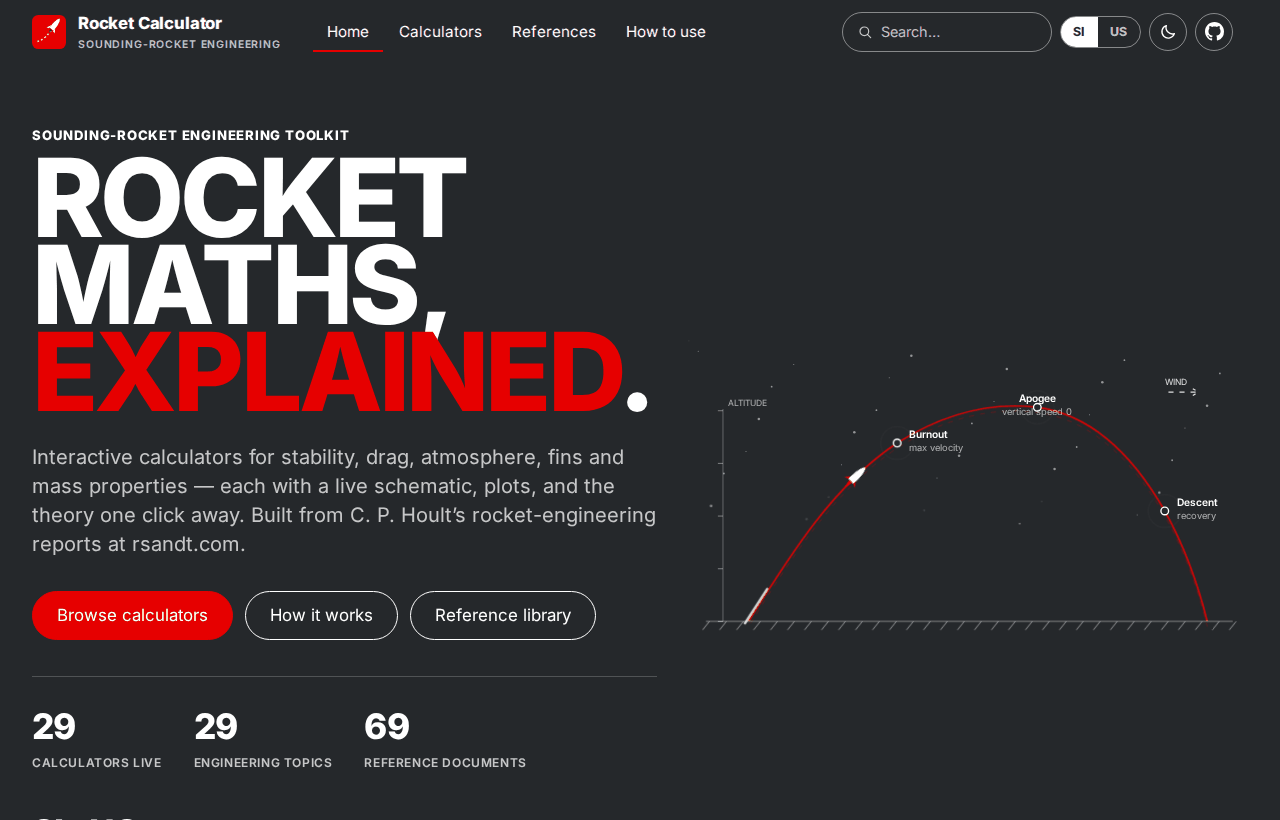
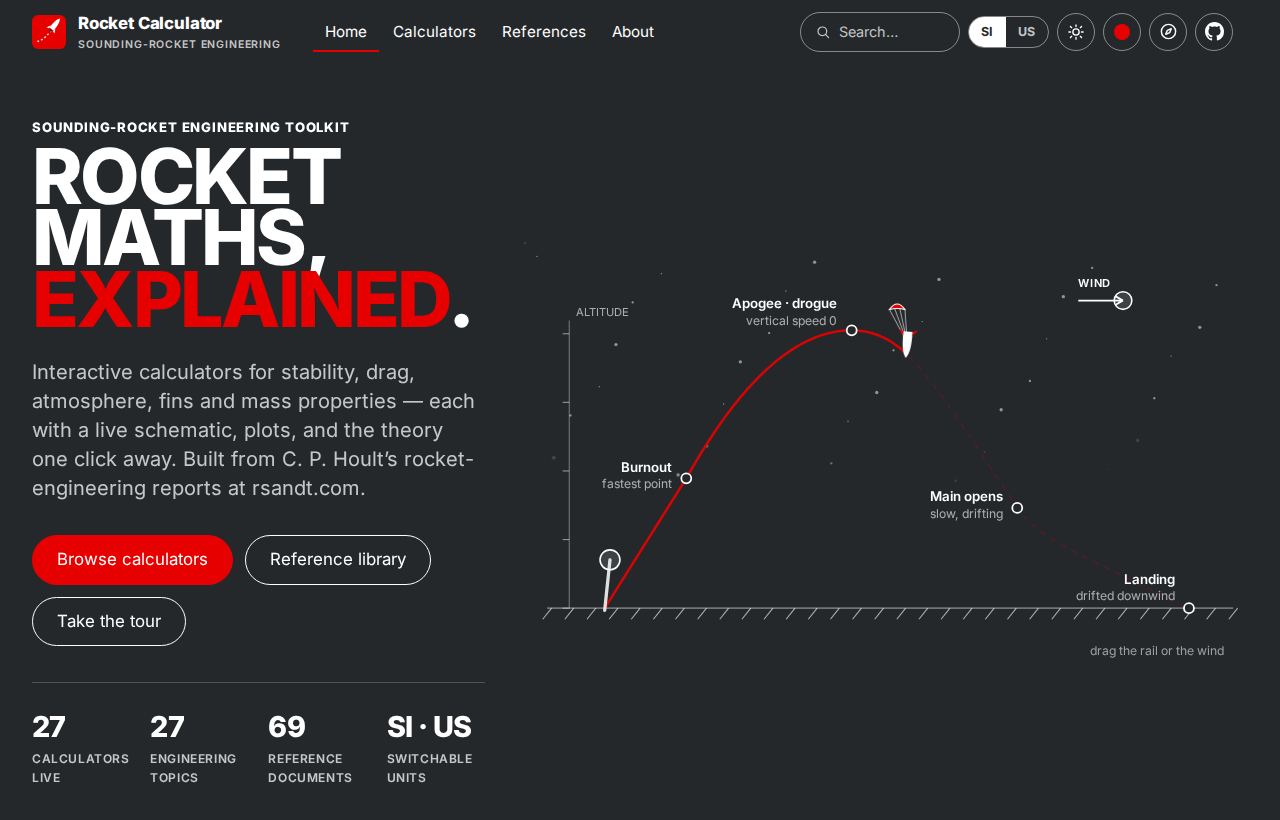
chore: housekeeping — README facts and screenshots, archive first-build docs, changelog and progress (#72)
- README: 27 calculators (aerodynamics 5), new screenshots of the
current site, tour/phone notes, SEO step, repository map and file
counts.
- `docs/PLAN.md` and `docs/PROGRESS.md` moved to `docs/history/` with a
superseded note (DECISIONS keeps them as history); references updated.
- CHANGELOG entries for the hero, SEO, tour, touch and this pass;
PROGRESS.md caught up; touch lessons in KNOWLEDGE.md.
- `scripts/touch-audit.mjs` kept as a tool; CALCULATOR-SPEC header row
matches the current header.

🤖 Generated with [Claude Code](https://claude.com/claude-code)

diff --git a/site/js/calculator-page.js b/site/js/calculator-page.js
@@ -1,5 +1,5 @@
 // Generic calculator page: renders intro, form, key results, schematic, plots, results table, references.
-// A calculator is a definition module (js/calculators/<slug>.js) — see docs/PLAN.md for the API.
+// A calculator is a definition module (js/calculators/<slug>.js) — see KNOWLEDGE.md (Shared component reference) for the API.
 import { h, url, fmt, num, debounce, toast, copyText, download, loadRegistry, loadReferences, storage, reveal, InputError } from './util.js';
 import { initShell, ICONS } from './app.js';
 

diff --git a/scripts/seed_registry.py b/scripts/seed_registry.py
@@ -4,7 +4,7 @@ Inputs : data/catalog.json (parsed from rsandt.com/reports.html), PDFs in site/r
 Outputs: site/js/registry.json   - areas, topics, calculators, non-PDF source files
          site/references/references.json - one entry per served PDF with a readable title
 
-Titles/authors/dates below were read from each document's title block (see docs/PLAN.md).
+Titles/authors/dates below were read from each document's title block (see docs/history/first-build-plan.md).
 Re-run after adding a calculator:  python3 scripts/seed_registry.py
 """
 import json, os, re, html, urllib.parse

diff --git a/README.md b/README.md
@@ -1,6 +1,6 @@
 # Rocket Calculator
 
-**Sounding-rocket engineering, explained — 29 interactive calculators with live diagrams, plots and the theory one click away.**
+**Sounding-rocket engineering, explained — 27 interactive calculators with live diagrams, plots and the theory one click away.**
 
 **Live: <https://rocketcalculator.github.io/>**
 
@@ -24,7 +24,8 @@ its geometry in a **scaled drawing**, plots the results, and links to a **theory
 - **Diagrams you can use:** zoom and pan, drag handles on the drawing to change inputs, rear view for every fin-count input.
 - **Reports:** every calculation produces a worked report (inputs, equations with your numbers, results, references) as a
   preview, Markdown or LaTeX; plots and drawings export as CSV/XLSX/JSON, SVG/PDF/EPS and PNG/JPEG.
-- **Works on a phone** (320 px and up).
+- **Works on a phone** (320 px and up): swipes scroll, sliders move only with a sideways drag, no zoom on focus.
+- **A guided tour** (the compass button) shows a new visitor every feature.
 
 ## The calculators
 | Area | Calculators |
@@ -40,7 +41,7 @@ its geometry in a **scaled drawing**, plots the results, and links to a **theory
 
 ```mermaid
 pie showData title Calculators per area
-    "Aerodynamics" : 7
+    "Aerodynamics" : 5
     "Structures & Aeroelasticity" : 5
     "Flight Dynamics & Mass Properties" : 7
     "Trajectory, Wind & Launch" : 5
@@ -55,7 +56,8 @@ pie showData title Calculators per area
 npm run serve          # http://localhost:8000 (serves site/)
 npm test               # the calculators against the original workbooks' cached values, plus invariants
 ```
-Needs only Node 22 and Python 3. After adding a calculator: `python3 scripts/seed_registry.py && node scripts/generate_pages.mjs`.
+Needs only Node 22 and Python 3. After adding a calculator: `python3 scripts/seed_registry.py && node scripts/generate_pages.mjs && node scripts/seo.mjs`
+(the full walkthrough is in the [developer guide](docs/DEVELOPER-GUIDE.md)).
 Browser checks (`npm run test:ui-layout`, `npm run test:ui-diagrams`, `node scripts/uifuzz.mjs`) need `puppeteer-core` and a
 Chromium: set `CHROME=/path/to/chrome`.
 
@@ -79,32 +81,32 @@ plots and a drawing. The shared page code does the rest, so every calculator beh
 ```text
 .
 ├── site/                      the website (what GitHub Pages publishes; no build step)
-│   ├── index.html, 404.html
-│   ├── calculators/           29 generated calculator pages
-│   ├── docs/                  29 theory pages (equations, assumptions, worked examples)
+│   ├── index.html, about.html, 404.html, sitemap.xml, robots.txt
+│   ├── calculators/           27 generated calculator pages (+ redirects from old addresses)
+│   ├── docs/                  27 theory pages (equations, assumptions, worked examples)
 │   ├── references/            69 reference PDFs + references.json
 │   ├── css/site.css
 │   ├── vendor/                KaTeX and fonts (bundled)
 │   └── js/
 │       ├── calc/              physics: plain functions, no DOM
 │       ├── calculators/       one definition per calculator
-│       ├── ui/                chart, viewport (zoom/pan), back view, form, report, export
+│       ├── ui/                chart, viewport (zoom/pan), back view, form, report, export, tour
 │       ├── calculator-page.js shared page: form, verdict, results, plots, drawings
 │       └── registry.json      topics, areas, calculators
-├── tests/                     35 test files: workbook comparisons, hand checks, invariants
-├── scripts/                   extraction pipeline, page generator, browser test runners
+├── tests/                     36 test files: workbook comparisons, hand checks, invariants, SEO
+├── scripts/                   extraction pipeline, page generator, SEO, browser test runners
 ├── data/                      catalog, every spreadsheet cell and formula, VBA, extracted text
 ├── derived/                   original Word files as PDF, spreadsheets as .xlsx
 ├── source/rsandt/             the original files, unmodified
-├── docs/                      design guide, plan, topic index, README images
+├── docs/                      developer guide, calculator spec, design guide, topic index, history, images
 └── KNOWLEDGE.md  DECISIONS.md  PROGRESS.md  CHANGELOG.md  BLOCKERS.md  DISCOVERY.md
 ```
 
 | Size by part | Files |
 |---|---|
-| Website `site/` | 266 |
-| Tests `tests/` | 35 |
-| Source material `source/`, `data/`, `derived/` | 357 |
+| Website `site/` | 277 |
+| Tests `tests/` | 37 |
+| Source material `source/`, `data/`, `derived/` | 358 |
 
 ## Working on it
 - Read [KNOWLEDGE.md](KNOWLEDGE.md) first (architecture, shared components, lessons), then [DECISIONS.md](DECISIONS.md),

diff --git a/CHANGELOG.md b/CHANGELOG.md
@@ -3,6 +3,12 @@
 Newest first, in the spirit of [Keep a Changelog](https://keepachangelog.com/). From 2026-10-25 every entry names its
 branch, tag and commit range. Live site: https://rocketcalculator.github.io/.
 
+## 2026-11-01 — Housekeeping (`chore/housekeeping`)
+- README: correct counts (27 calculators, 5 aerodynamics), new screenshots of the current site, tour and phone notes,
+  the SEO step after adding a calculator.
+- The first build's plan and log moved to `docs/history/` with a note that they are superseded (D-record kept).
+- `scripts/touch-audit.mjs` kept as a tool; touch lessons in KNOWLEDGE.md; PROGRESS.md brought up to date.
+
 ## 2026-11-01 — Open-source community files (`chore/governance`)
 - Licences: GPL-3.0-or-later for the code (LICENSE), CC BY-SA 4.0 for the written content (LICENSE-docs), and
   THIRD-PARTY.md for Hoult's material, the reference library, KaTeX and Inter (D46).
@@ -10,6 +16,26 @@ branch, tag and commit range. Live site: https://rocketcalculator.github.io/.
   decisions, triage, pull requests, releases), SECURITY.md, SUPPORT.md, CITATION.cff, .editorconfig.
 - GitHub: issue forms (wrong result, bug, feature), pull request template, CODEOWNERS, a label set
   (.github/labels.yml), Dependabot, and a CI workflow that runs the test suite on every pull request.
+
+## 2026-11-01 — Touch and scrolling (`fix/touch-scroll`, #71)
+- On phones a swipe on the inputs panel now scrolls the page (it was a scroll box that swallowed swipes), and a
+  vertical swipe across a slider scrolls instead of changing the value; only a sideways drag moves a slider.
+- Touch screens: 16 px fields (no iOS zoom), 44 px targets around the i buttons, bigger drawing handles, hero knobs and
+  zoom buttons; plot readings stay after the finger lifts and stay inside the plot; the report preview opens with a
+  button instead of scrolling inside the page; smooth in-page scrolling.
+
+## 2026-11-01 — Guided tour (`feat/tour`, #69)
+- A 20-step tour of the home page, a calculator and the reference library, from the compass button in the header
+  (the menu on phones), the hero and the footer. Keyboard, reduced motion and phones supported.
+
+## 2026-11-01 — Search engines and link previews (`feat/seo`, #68)
+- Canonical URL, Open Graph and Twitter card tags, and schema.org JSON-LD on every page; `sitemap.xml` and
+  `robots.txt`; a social preview image; crawler-readable calculator pages. `scripts/seo.mjs` writes them and the Pages
+  workflow refreshes them on deploy; `tests/seo.test.js` keeps them in step.
+
+## 2026-10-27 → 2026-11-01 — Hero flight (#63–#67)
+- The flight fills the hero, recovers smoothly with an inflating drogue and main, lands nose-first and topples over
+  with its parachutes; the hero gives the flight the larger column and sizes the title to its own column.
 
 ## 2026-10-27 — Home page (`improve/home-page`)
 - Hero: the flight is now interactive and complete — boost along the rail, coast to apogee, the drogue at apogee, the

diff --git a/KNOWLEDGE.md b/KNOWLEDGE.md
@@ -488,6 +488,20 @@ fin count, Reliability Growth exposure and fixing).
 
 ## Lessons learned
 
+### Touch and scrolling (2026-11-01)
+- **Test touch with real touch events.** In the headless shell `Input.synthesizeScrollGesture` scrolls nothing even on
+  plain text; `Input.dispatchTouchEvent` (touchStart, 8 × touchMove, touchEnd) scrolls like a finger. `scripts/touch-audit.mjs`
+  swipes from every kind of element and lists small targets, iOS-zoom fields and nested scroll boxes.
+- **Chrome's native range input ignores `touch-action`.** A vertical swipe across it changed the value and did not
+  scroll. On coarse pointers the slider sits in `.range-touch` (`touch-action: pan-y`, slider `pointer-events: none`),
+  and form.js moves it only after a sideways drag of more than 8 px.
+- **`overscroll-behavior: contain` on a box that cannot scroll still stops the page scrolling.** The stacked inputs
+  panel kept `overflow: auto` from the sticky desktop layout and swallowed every swipe; below 980 px it is `overflow: visible`.
+- **iOS zooms into any field under 16 px**; touch screens get 16 px fields. Small buttons get a 44 px `::after` target.
+- **Plots on touch:** `touch-action: pan-y` lets a sideways finger read along the curve; `pointerleave` fires right
+  after a tap, so the reading is kept until the next scroll or tap.
+
+
 ### After Nozzle (Phase 2)
 - **Sweep every slider in the browser and check that the drawing changes and nothing is refused** (scratch `sweep.mjs`): unit tests passed while most of the input space was refused. Coupled inputs must degrade gracefully (clamp + warn), not refuse.
 - **Chart labels: wrap maths in `$…$`.** A label with bare TeX and words (`'Expansion ratio \\varepsilon'`) is typeset whole as maths in the tooltip — no spaces, italic.

diff --git a/PROGRESS.md b/PROGRESS.md
@@ -1,7 +1,7 @@
 # Progress — overhaul run
 
 Running log of the overhaul (plan given 2026-10-25). Newest last. Read with `DECISIONS.md`, `BLOCKERS.md` and
-`KNOWLEDGE.md`. The log of the first build is `docs/PROGRESS.md`.
+`KNOWLEDGE.md`. The log of the first build is `docs/history/first-build-progress.md`.
 
 ## 2026-10-25 — Phase −1: hosting
 
@@ -113,3 +113,15 @@ live pages checked after each deploy.
 - Tests: npm test 294/294; browser check of all examples, SI/US, live site clean. Layout/diagram suites deferred (D20).
 - Earlier the same day (user requests): back-view note shown whole and drawings above plots (#12), Fin Flutter fin
   count removed (#13), Reliability Growth handle centred (#14).
+
+## 2026-10-27 → 2026-11-01 — Home page, SEO, tour, touch, community
+
+- Every calculator is at the standard (D26–D45); info tabs rewritten to DESIGN-GUIDE §6a.
+- Home hero: an interactive flight (rail and wind handles) with drogue and main inflating, a nose-first landing that
+  topples over with the parachutes, and a larger layout (#63–#67).
+- SEO: canonical, Open Graph/Twitter and JSON-LD on every page, sitemap.xml and robots.txt from `scripts/seo.mjs`,
+  refreshed on deploy (#68).
+- Guided tour across home, Fin Flutter and the reference library (#69).
+- Touch and scrolling: the stacked inputs panel and sliders no longer trap swipes, 16 px fields, bigger targets (#71).
+- Open-source community files, licences (GPL-3.0-or-later, CC BY-SA 4.0), CI on pull requests, repository rules (D46).
+- Housekeeping: README screenshots retaken, the first build's plan and log moved to `docs/history/`.

diff --git a/docs/CALCULATOR-SPEC.md b/docs/CALCULATOR-SPEC.md
@@ -15,7 +15,7 @@ and by how much?* Every page answers all three within five seconds.
 
 | # | Block | Must contain | Notes |
 |---|---|---|---|
-| 1 | **Header** (shared) | Brand, nav (Home, Calculators, References, How to use, About), search, SI/US, dark mode, **accent colour picker**, GitHub | Fits on one line from 320 to 1440 px; the nav collapses below 1000 px. |
+| 1 | **Header** (shared) | Brand, nav (Home, Calculators, References, About), search, SI/US, dark mode, **accent colour picker**, tour (compass), GitHub | Fits on one line from 320 to 1440 px; the nav collapses below 1000 px. |
 | 2 | **Title + subtitle** | The calculator's name (what it designs, e.g. "Nozzle Design and Thrust") and one sentence on what it gives | A name says what the user designs, not the source's formula name. |
 | 3 | **Intro cards** | What it does · Why it matters · When to use it | Plain words, 2–3 sentences each. |
 | 4 | **Design bar** (shared) | Shared rocket name, share dimensions across calculators, pin baseline, save/open design | Unchanged per calculator. |

diff --git a/docs/history/first-build-progress.md b/docs/history/first-build-progress.md
@@ -1,5 +1,7 @@
 # Progress log
 
+> **Historical (first build, October 2026).** Kept as a record; it no longer describes the project. Current docs: [developer guide](../DEVELOPER-GUIDE.md), [KNOWLEDGE.md](../../KNOWLEDGE.md), [PROGRESS.md](../../PROGRESS.md).
+
 - 2026-10-20 — Plan written (`docs/PLAN.md`). Vendored KaTeX 0.16.11 + IBM Plex fonts. Registry + reference
   metadata seeded (`scripts/seed_registry.py`). Excel-cached values extracted from original .xls
   (`scripts/extract_xls_cached.py`) and defined names (`data/spreadsheets/_defined_names.json`).

diff --git a/docs/history/first-build-plan.md b/docs/history/first-build-plan.md
@@ -1,5 +1,7 @@
 # Build plan — Rocket Calculator website
 
+> **Historical (first build, October 2026).** Kept as a record; it no longer describes the project. Current docs: [developer guide](../DEVELOPER-GUIDE.md), [KNOWLEDGE.md](../../KNOWLEDGE.md), [PROGRESS.md](../../PROGRESS.md).
+
 Static site in `site/`, vanilla HTML/CSS/ES modules, no build step at deploy. Dev-time scripts in `scripts/`
 (Python/Node) generate committed files (registry, stub pages); nothing runs on GitHub except the Pages upload.
 
